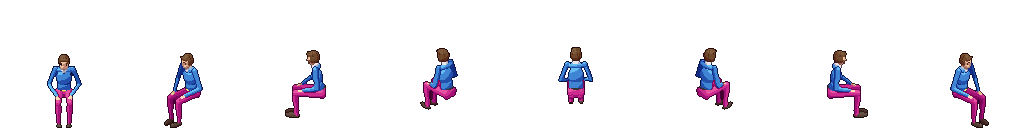
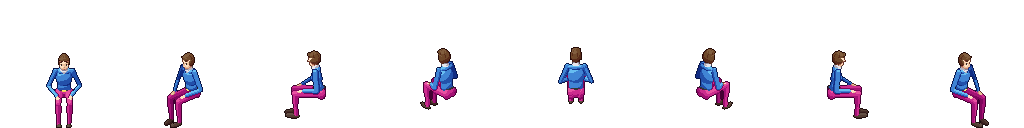
rig1 zombie fix: howard rebuilt upright with the new face/posture/walk/idle (audit 0, armcheck ok)

diff --git a/characters/howard/qa_report.md b/characters/howard/qa_report.md
@@ -1,17 +1,17 @@
 # QA report: chr_howard
 
-Generated 2026-10-30 17:58 (America/Los_Angeles) by tools/build_char_sheet.py + tools/qa_char.py.
+Generated 2026-10-30 18:45 (America/Los_Angeles) by tools/build_char_sheet.py + tools/qa_char.py.
 
 | Check | Result |
 |---|---|
 | Frame / pivot | 128x128, pivot (64,116) |
-| Body height (spec 89 px, head top y=27) | idle S head top y=29 -> 87 px (PASS) |
+| Body height (spec 89 px, head top y=27) | idle S head top y=26 -> 90 px (PASS) |
 | Feet on pivot line (idle, painted dirs; lowest row 116-122, house convention 119-121) | PASS (lowest px 118) |
 | Palette violations | 0 (PASS) |
 | Alpha values | [0, 255] |
 | Frames / sheet | 360 frames, 2048x2944 |
 | Animations | idle 8f@4fps x8D, walk 8f@10fps x8D, blink 3f@12fps x8D, work 6f@8fps x8D, talk 4f@6fps x8D, gesture 6f@8fps x8D, eyebrow_waggle 4f@10fps x8D, magic_trick 6f@8fps x8D |
-| Mirrors (NE/E/SE = flip NW/W/SW) | NE: silhouette DIFF, 781 px re-evaluated, E: silhouette DIFF, 628 px re-evaluated, SE: silhouette DIFF, 727 px re-evaluated |
+| Mirrors (NE/E/SE = flip NW/W/SW) | NE: silhouette DIFF, 832 px re-evaluated, E: silhouette DIFF, 638 px re-evaluated, SE: silhouette DIFF, 778 px re-evaluated |
 | Decal 'alien_pin' per dir (px, mean col) | S: 0, SW: 0, W: 0, SE: 0, E: 0 |
 | Eye pixels in idle S | 0 |
 | GIFs | blink_8dir_4x.gif (4f), eyebrow_waggle_8dir_4x.gif (5f), gesture_8dir_4x.gif (7f), idle_8dir_4x.gif (8f), magic_trick_8dir_4x.gif (7f), talk_8dir_4x.gif (4f), walk_8dir_4x.gif (8f), walk_E_4x.gif (8f), walk_NE_4x.gif (8f), walk_NW_4x.gif (8f), walk_N_4x.gif (8f), walk_SE_4x.gif (8f), walk_SW_4x.gif (8f), walk_S_4x.gif (8f), walk_W_4x.gif (8f), work_8dir_4x.gif (6f) |
